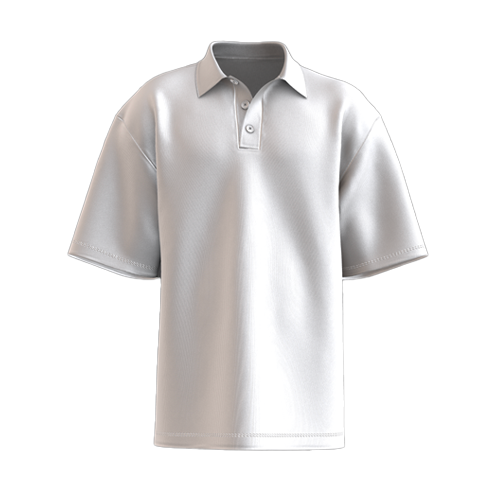
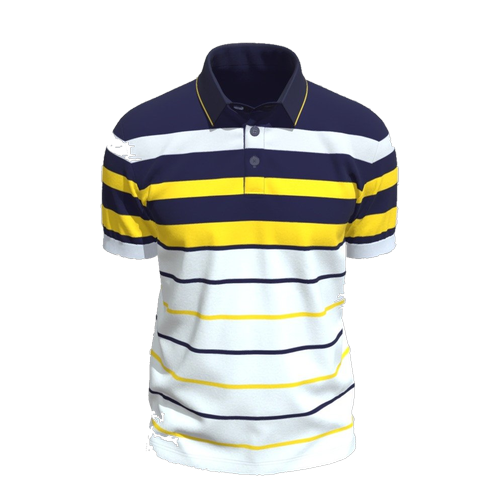
feat(polo): apply authentic polo shirt 3 design and attachments

diff --git a/src/three/SceneManager.js b/src/three/SceneManager.js
@@ -219,7 +219,7 @@ export class SceneManager {
 
     // 5. Canvas Design Manager (Optimized 2048x2048 texture with 60 FPS RAF scheduling)
     this.designManager = new CanvasDesignManager('#ffffff');
-    this.designManager.setGarmentType(this.getGarmentFamily(initialGarmentType));
+    this.designManager.setGarmentType(initialGarmentType);
     this.designManager.subscribe(() => this.updateDecalVisibility());
 
     // 6. 3D Model references & animations
@@ -1661,7 +1661,7 @@ export class SceneManager {
     const applyToMaterial = (mat) => {
       if (!mat || mat === this.decalMaterial) return;
       const mName = (mat.name || '').toLowerCase();
-      if (mName.includes('slider') || mName.includes('metal') || mName.includes('button')) return;
+      if (mName.includes('slider') || mName.includes('metal') || mName.includes('button') || mName.includes('polo_')) return;
 
       const hasDynamicCanvas = (mat === this.shirtMaterial || mat === this.fabricMaterial || mat.map === this.designManager?.texture);
       if (colorObj && mat.color) {
@@ -2026,7 +2026,7 @@ export class SceneManager {
   setGarmentType(type, onComplete) {
     this.garmentType = type || 'oversized_tee';
     if (this.designManager && this.designManager.setGarmentType) {
-      this.designManager.setGarmentType(this.getGarmentFamily(this.garmentType));
+      this.designManager.setGarmentType(this.garmentType);
     }
 
     const family = this.getGarmentFamily(this.garmentType);
@@ -2084,17 +2084,48 @@ export class SceneManager {
   }
 
   setupPoloAttachments() {
-    const fabMat = this.shirtMaterial || this.fabricMaterial;
-
     this.poloGroup = new THREE.Group();
     this.poloGroup.name = 'garment_polo_attachments';
     this.poloGroup.position.set(0, -0.427445, 0);
     this.poloGroup.visible = false;
 
-    // 1. Turned-down continuous collar band contouring the neck from back to front
+    // 1. Turned-down continuous rib collar band contouring the neck with gold tipping trim
+    let poloCollarMat;
+    if (typeof document !== 'undefined') {
+      const collarCanvas = document.createElement('canvas');
+      collarCanvas.width = 512;
+      collarCanvas.height = 256;
+      const cCtx = collarCanvas.getContext('2d');
+      cCtx.fillStyle = '#1a243f'; // Deep navy
+      cCtx.fillRect(0, 0, 512, 256);
+      cCtx.fillStyle = '#ffd000'; // Vibrant gold/yellow tipping trim
+      cCtx.fillRect(0, 230, 512, 26);
+      const collarTex = new THREE.CanvasTexture(collarCanvas);
+      collarTex.wrapS = THREE.RepeatWrapping;
+      collarTex.wrapT = THREE.ClampToEdgeWrapping;
+
+      poloCollarMat = new THREE.MeshPhysicalMaterial({
+        name: 'polo_collar_material',
+        map: collarTex,
+        roughness: 0.96,
+        metalness: 0.0,
+        sheen: 0.1,
+        side: THREE.DoubleSide
+      });
+    } else {
+      poloCollarMat = new THREE.MeshPhysicalMaterial({
+        name: 'polo_collar_material',
+        color: 0x1a243f,
+        roughness: 0.96,
+        metalness: 0.0,
+        sheen: 0.1,
+        side: THREE.DoubleSide
+      });
+    }
+
     const poloCollarCurve = new THREE.CylinderGeometry(1.22, 1.36, 0.48, 36, 1, false, Math.PI * 0.18, Math.PI * 1.64);
     poloCollarCurve.rotateX(-0.16);
-    const poloCollarMesh = new THREE.Mesh(poloCollarCurve, fabMat);
+    const poloCollarMesh = new THREE.Mesh(poloCollarCurve, poloCollarMat);
     poloCollarMesh.name = 'attachment_polo_collar';
     poloCollarMesh.position.set(0, 3.24, 0.06);
 
@@ -2108,37 +2139,54 @@ export class SceneManager {
     const extrudeSettings = { depth: 0.035, bevelEnabled: true, bevelSegments: 2, steps: 1, bevelSize: 0.015, bevelThickness: 0.015 };
     const lapelGeom = new THREE.ExtrudeGeometry(lapelShape, extrudeSettings);
 
-    const leftLapel = new THREE.Mesh(lapelGeom, fabMat);
+    const poloLapelMat = new THREE.MeshPhysicalMaterial({
+      name: 'polo_lapel_material',
+      color: 0x1a243f,
+      roughness: 0.96,
+      metalness: 0.0,
+      sheen: 0.1,
+      side: THREE.DoubleSide
+    });
+
+    const leftLapel = new THREE.Mesh(lapelGeom, poloLapelMat);
     leftLapel.name = 'attachment_polo_left_lapel';
     leftLapel.position.set(-0.14, 3.20, 0.95);
     leftLapel.rotation.set(0.20, 0.10, -0.18);
 
-    const rightLapel = new THREE.Mesh(lapelGeom, fabMat);
+    const rightLapel = new THREE.Mesh(lapelGeom, poloLapelMat);
     rightLapel.name = 'attachment_polo_right_lapel';
     rightLapel.position.set(0.14, 3.20, 0.95);
     rightLapel.rotation.set(0.20, -0.10, 0.18);
     rightLapel.scale.set(-1, 1, 1);
 
     // 3. Front center placket with stitch welt
+    const poloPlacketMat = new THREE.MeshPhysicalMaterial({
+      name: 'polo_placket_material',
+      color: 0x1a243f,
+      roughness: 0.96,
+      metalness: 0.0,
+      sheen: 0.1
+    });
+
     const placketGeom = new THREE.BoxGeometry(0.44, 1.62, 0.045);
-    const placketMesh = new THREE.Mesh(placketGeom, fabMat);
+    const placketMesh = new THREE.Mesh(placketGeom, poloPlacketMat);
     placketMesh.name = 'attachment_polo_placket';
     placketMesh.position.set(0, 2.14, 0.96);
     placketMesh.rotation.set(0.14, 0, 0);
 
     // Bottom box-stitch placket tab
     const placketTabGeom = new THREE.BoxGeometry(0.48, 0.22, 0.055);
-    const placketTabMesh = new THREE.Mesh(placketTabGeom, fabMat);
+    const placketTabMesh = new THREE.Mesh(placketTabGeom, poloPlacketMat);
     placketTabMesh.name = 'attachment_polo_placket_tab';
     placketTabMesh.position.set(0, 1.34, 0.88);
     placketTabMesh.rotation.set(0.14, 0, 0);
 
-    // 4. Pearlescent buttons (3-button authentic polo placket)
+    // 4. Buttons (authentic dark polo placket buttons)
     const buttonMat = new THREE.MeshStandardMaterial({
       name: 'polo_button_material',
-      color: 0xf4f4f4,
-      roughness: 0.22,
-      metalness: 0.12
+      color: 0x1c2438,
+      roughness: 0.32,
+      metalness: 0.18
     });
     const buttonGeom = new THREE.CylinderGeometry(0.065, 0.065, 0.025, 20);
     buttonGeom.rotateX(Math.PI / 2 + 0.14);
@@ -2153,14 +2201,22 @@ export class SceneManager {
     b3.name = 'attachment_polo_button_3';
     b3.position.set(0, 1.58, 0.94);
 
-    // 5. Ribbed sleeve cuffs
+    // 5. Ribbed sleeve cuffs in crisp white
+    const poloCuffMat = new THREE.MeshPhysicalMaterial({
+      name: 'polo_cuff_material',
+      color: 0xffffff,
+      roughness: 0.96,
+      metalness: 0.0,
+      side: THREE.DoubleSide
+    });
+
     const poloCuffGeom = new THREE.CylinderGeometry(0.82, 0.84, 0.26, 32, 1, true);
-    const leftPoloCuff = new THREE.Mesh(poloCuffGeom, fabMat);
+    const leftPoloCuff = new THREE.Mesh(poloCuffGeom, poloCuffMat);
     leftPoloCuff.name = 'attachment_polo_cuff_left';
     leftPoloCuff.position.set(-3.25, 1.38, 0.06);
     leftPoloCuff.rotation.set(0, 0, -0.58);
 
-    const rightPoloCuff = new THREE.Mesh(poloCuffGeom, fabMat);
+    const rightPoloCuff = new THREE.Mesh(poloCuffGeom, poloCuffMat);
     rightPoloCuff.name = 'attachment_polo_cuff_right';
     rightPoloCuff.position.set(3.25, 1.38, 0.06);
     rightPoloCuff.rotation.set(0, 0, 0.58);

diff --git a/src/three/CanvasDesignManager.js b/src/three/CanvasDesignManager.js
@@ -184,7 +184,11 @@ export class CanvasDesignManager {
   }
 
   setGarmentType(type) {
-    this.garmentType = type;
+    if (this.garmentType !== type) {
+      this.garmentType = type;
+      this.render();
+      this.notify();
+    }
   }
 
   updateLayer(id, updates, immediate = false) {
@@ -333,6 +337,76 @@ export class CanvasDesignManager {
     this.fabricPattern = this.ctx.createPattern(pCanvas, 'repeat');
   }
 
+  /**
+   * Renders the authentic Polo Shirt 3 design from Sketchfab reference:
+   * Deep navy shoulder yoke, 5 bold chest rugby block stripes (white, navy, yellow, navy, yellow),
+   * clean white body with alternating navy & yellow pinstripes, and matching sleeve stripes with white cuffs.
+   */
+  drawPoloDesign(ctx, S) {
+    const navy = '#1a243f';
+    const yellow = '#ffd000';
+    const bodyBase = this.garmentColor || '#ffffff';
+
+    // 1. Solid base body fill
+    ctx.fillStyle = bodyBase;
+    ctx.fillRect(0, 0, S, S);
+
+    // 2. Deep navy shoulder yoke and collar base (Y: 0 to 720)
+    ctx.fillStyle = navy;
+    ctx.fillRect(0, 0, S, 720);
+
+    // 3. Bold rugby chest block stripes across front & back (Y: 720 to 1100)
+    // White / bodyBase band
+    ctx.fillStyle = bodyBase;
+    ctx.fillRect(0, 720, S, 75);
+    // Navy band
+    ctx.fillStyle = navy;
+    ctx.fillRect(0, 795, S, 75);
+    // Vibrant Golden Yellow band
+    ctx.fillStyle = yellow;
+    ctx.fillRect(0, 870, S, 75);
+    // Navy band
+    ctx.fillStyle = navy;
+    ctx.fillRect(0, 945, S, 75);
+    // Vibrant Golden Yellow band
+    ctx.fillStyle = yellow;
+    ctx.fillRect(0, 1020, S, 80);
+
+    // 4. Alternating thin pinstripes on lower body & back (Y: 1100 to 1660)
+    const pinstripes = [
+      { y: 1180, color: navy },
+      { y: 1255, color: yellow },
+      { y: 1330, color: navy },
+      { y: 1405, color: yellow },
+      { y: 1480, color: navy },
+      { y: 1555, color: yellow },
+      { y: 1630, color: navy }
+    ];
+    pinstripes.forEach((stripe) => {
+      ctx.fillStyle = stripe.color;
+      ctx.fillRect(0, stripe.y, S, 14);
+    });
+
+    // 5. Sleeves (Y: 1720 to 2048)
+    // Sleeve cap / upper sleeve (Navy continuous with shoulder yoke)
+    ctx.fillStyle = navy;
+    ctx.fillRect(0, 1720, S, 50);
+    // Matching block stripes down the sleeves
+    ctx.fillStyle = bodyBase;
+    ctx.fillRect(0, 1770, S, 40);
+    ctx.fillStyle = navy;
+    ctx.fillRect(0, 1810, S, 40);
+    ctx.fillStyle = yellow;
+    ctx.fillRect(0, 1850, S, 40);
+    ctx.fillStyle = navy;
+    ctx.fillRect(0, 1890, S, 40);
+    ctx.fillStyle = yellow;
+    ctx.fillRect(0, 1930, S, 45);
+    // Crisp white ribbed sleeve cuffs
+    ctx.fillStyle = '#ffffff';
+    ctx.fillRect(0, 1975, S, S - 1975);
+  }
+
   render() {
     const ctx = this.ctx;
     const dCtx = this.decalCtx;
@@ -346,9 +420,13 @@ export class CanvasDesignManager {
       dCtx.imageSmoothingQuality = 'high';
     }
 
-    // 1. Fill base garment color (pure, plain and clean) for t-shirt full UV map
-    ctx.fillStyle = this.garmentColor;
-    ctx.fillRect(0, 0, S, S);
+    // 1. Fill base garment color or polo rugby stripes
+    if (this.garmentType === 'polo') {
+      this.drawPoloDesign(ctx, S);
+    } else {
+      ctx.fillStyle = this.garmentColor;
+      ctx.fillRect(0, 0, S, S);
+    }
 
     // 2. Micro textile weave texture overlay for authentic tactile cotton feel
     if (!this.fabricPattern) {

diff --git a/src/components/ProductsCatalogModal.jsx b/src/components/ProductsCatalogModal.jsx
@@ -31,9 +31,9 @@ export const GARMENT_PRODUCTS = [
     badge: 'STUDIO READY',
     badgeType: 'studio',
     category: 'Tops',
-    description: 'Classic tailored polo shirt with folded rib collar, 3-button front placket, and ribbed sleeve cuffs.',
-    features: ['Ribbed Folded Collar', '3-Button Placket', 'Ribbed Sleeve Bands'],
-    imageBg: 'from-emerald-900/30 to-teal-950/40',
+    description: 'Polo Shirt 3 - Athletic rugby block stripe polo featuring deep navy ribbed collar with gold tipping, 3-button placket, bold chest stripes, and crisp white cuffs.',
+    features: ['Ribbed Collar with Gold Tipping', '3-Button Placket', 'Rugby Block Stripes', 'Ribbed White Cuffs'],
+    imageBg: 'from-blue-950/40 to-slate-900/50',
     popular: true
   },
   {
